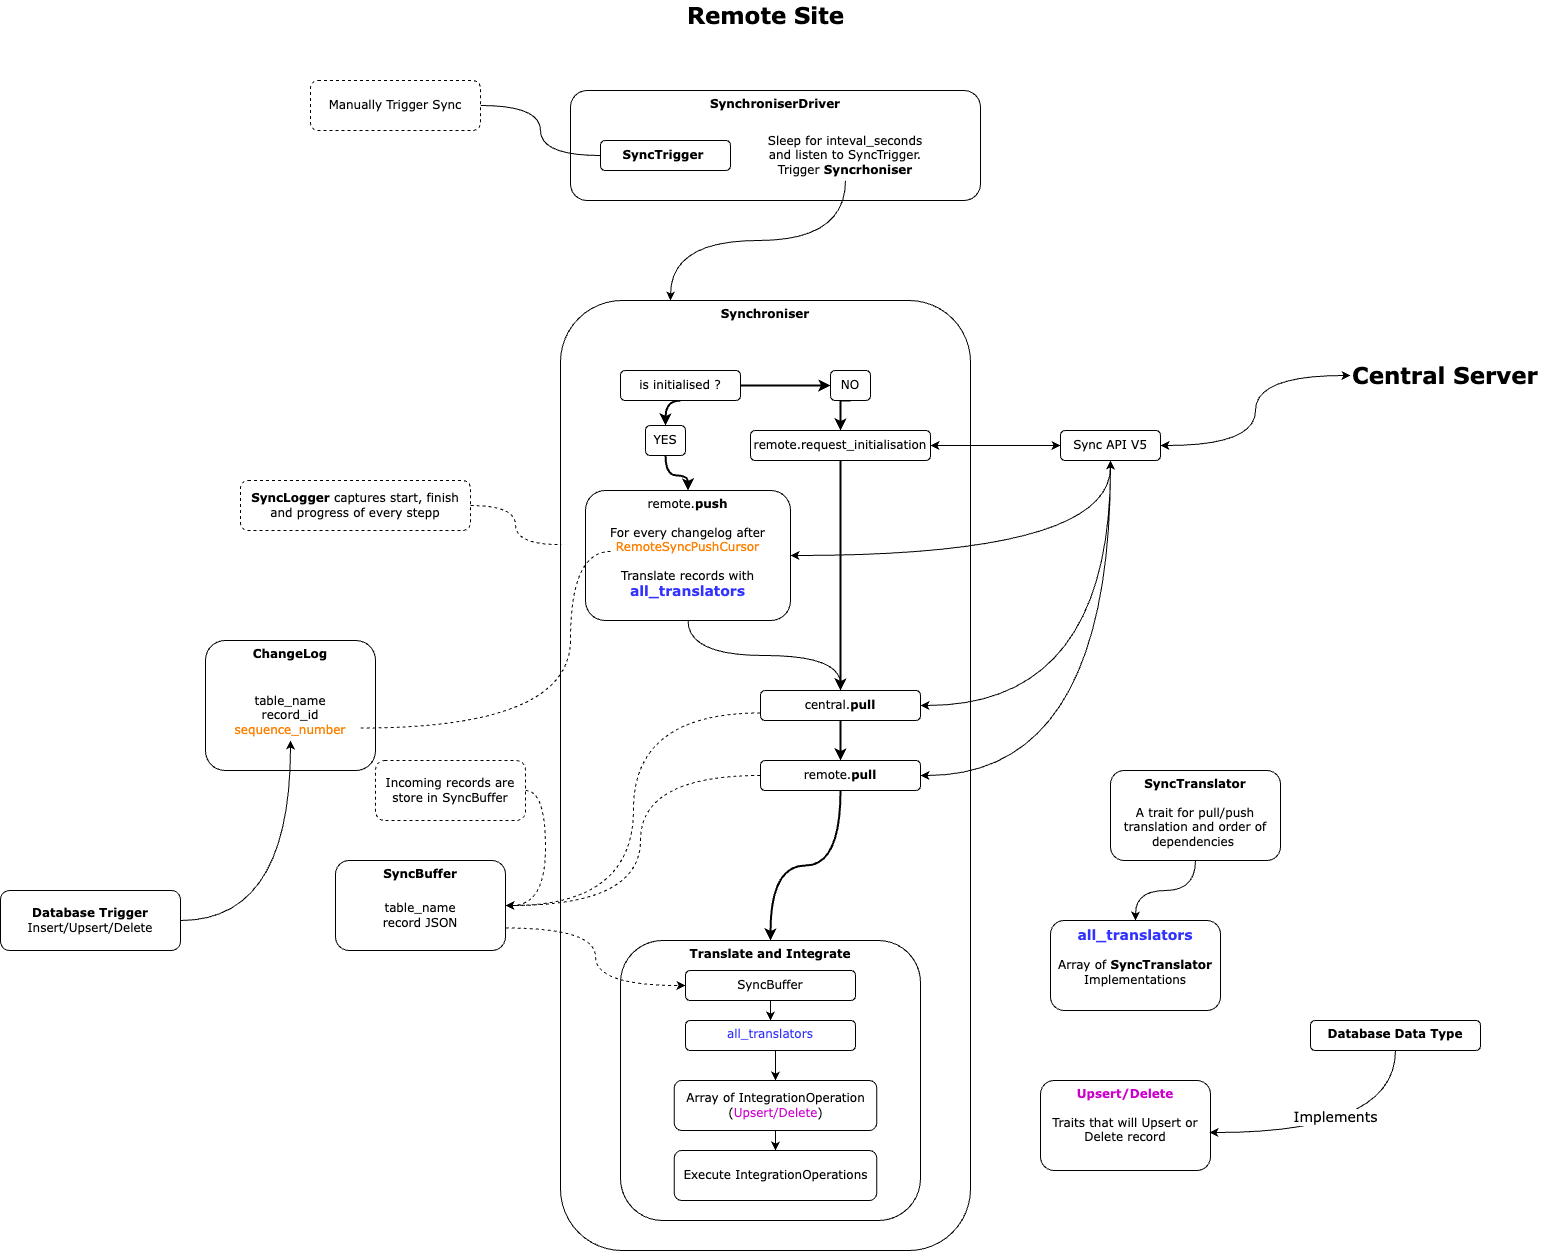
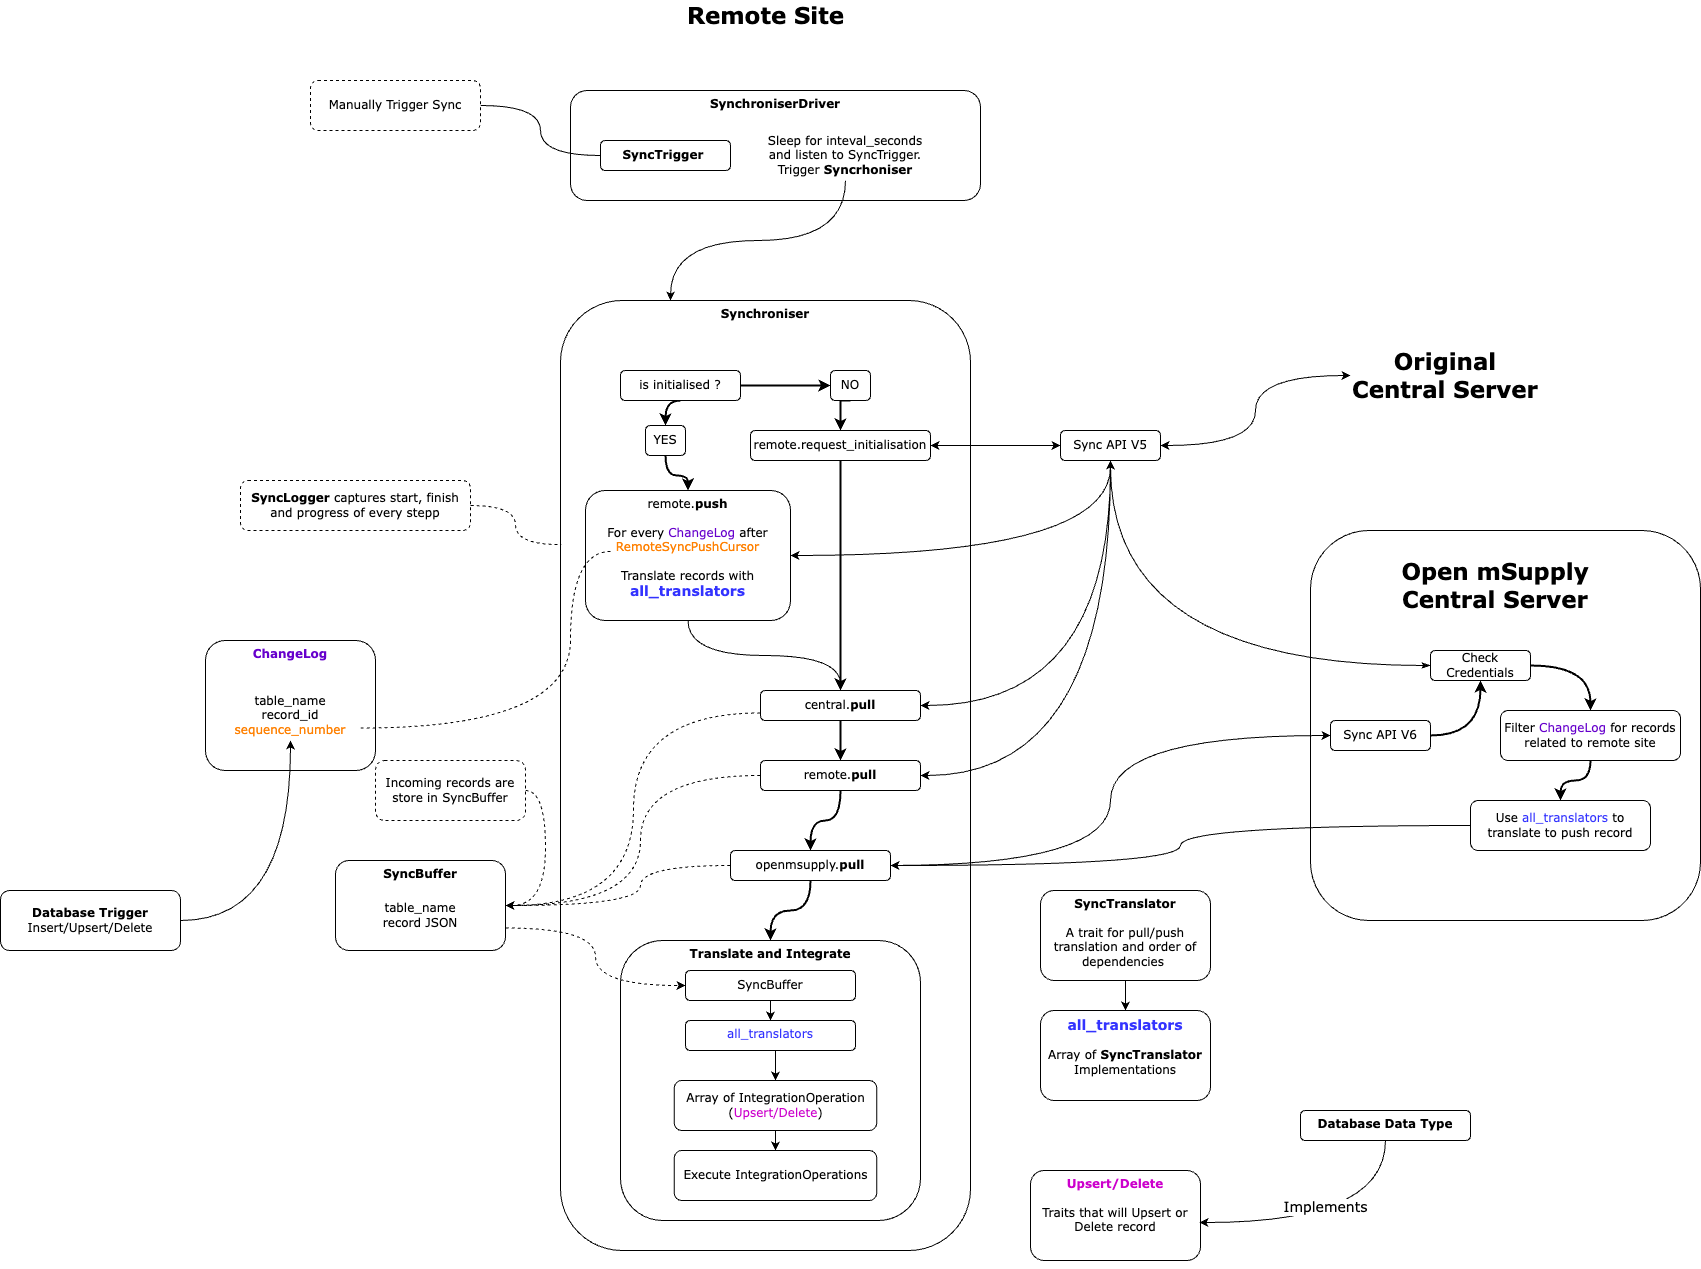
Add sync dosc and update diagram
Source: https://github.com/msupply-foundation/open-msupply/commit/562be1cffb6f655f584e1a543416d6428dc91d96

diff --git a/server/service/src/sync/README.md b/server/service/src/sync/README.md
@@ -84,11 +84,52 @@ Please see below commit for an example of adding a new table and relative transl
 
 [Add translations](https://github.com/msupply-foundation/open-msupply/commit/a9b3d90a597f9670687f0fc26a5632310fe6b4c9)
 
+## Central Servers
+
+In order to use Open mSupply a central server is required, it’s used to configure central data and as a central hub for synchronisation of records from remote sites via the REST API that it hosts. 
+
+Original mSupply central server is implemented in 4D, located in this private repository. 
+
+Our plan is to transition to an open source implementation of a central server, having a shared code base with Open mSupply. For this to happen we need to run two central servers in parallel, in which case an Open mSupply central server will still sync data from original mSupply central server (as if it was a remote site) and at the same time allow for new central records types (like pack variants and asset catalog) to be configured, while exposing sync API for consumption of remote Open mSupply sites.
+
+## Open mSupply Central Server
+
+Existing remote sites sync to both Original and Open mSupply at the same time, pushing different records to different endpoints. To reduce the number of configurations on remote site Open mSupply central server is hosted on the same machine as Original mSupply central server, and it exposes the sync API on a known port (Original mSupply port + 2).
+
+An environmental variable flag IS_CENTRAL_SERVER is used to identify an Open mSupply instance as a central server. Open mSupply is still a remote site, from the perspective of Original mSupply central server, and can have active stores. 
+
+When remote sites syncs to Open mSupply’s central server it passes through Original mSupply sync settings, including remote site’s credentials and its own hardware id, Open mSupply central server will use these credentials to check validity of the site against Original mSupply central server.
+
+Open mSupply's central server uses ChangeLog to keep track of what records have been updated in order to figure out what needs to be sent to a remote site. And the remote site keeps track of a cursor (SyncPullCursorV6) to ensure only new updates are synced from the central server.
+
+## ChangeLog instead of queue
+
+In Original mSupply central server, remote/transfer/shared records are added to a sync queue for the related remote site. This queue is used to figure out what should go to what site when there are sync API requests from remote sites.
+
+In Open mSupply, ChangeLog is used for this. The logic, of determining which records should go to which site, happens in one sql statements on ChangeLog, which would look something like this:
+```SQL
+SELECT * FROM changelog_dedup
+WHERE cursor > {remote site SyncPullCursorV6} AND last_sync_site_id != {remote site id}
+AND
+(
+    (table_name in {central record names})     
+    OR
+	(table_name in {remote record names}  AND store_id IN {active stores on remote site})                   
+    OR
+	(table_name in {transfer record names}  AND name_id IN {name_ids of active stores on remote site})
+    OR
+	// Special cases
+	(table_name in {patient record name} AND patient_id IN {select name_id from name_store_join where store_id in {active stores on remote site})
+)
+```
+
+
 ## Diagrams
 
 From [TMF internal docs](https://app.diagrams.net/#G1vVZQF_o0JiABBs1jpI0TneFfRonVqySD)
 
 ![omSupply Remote Site Sync](./doc/omSupply_sync_remote.png)
+
 
 ## Central Sync API
 
